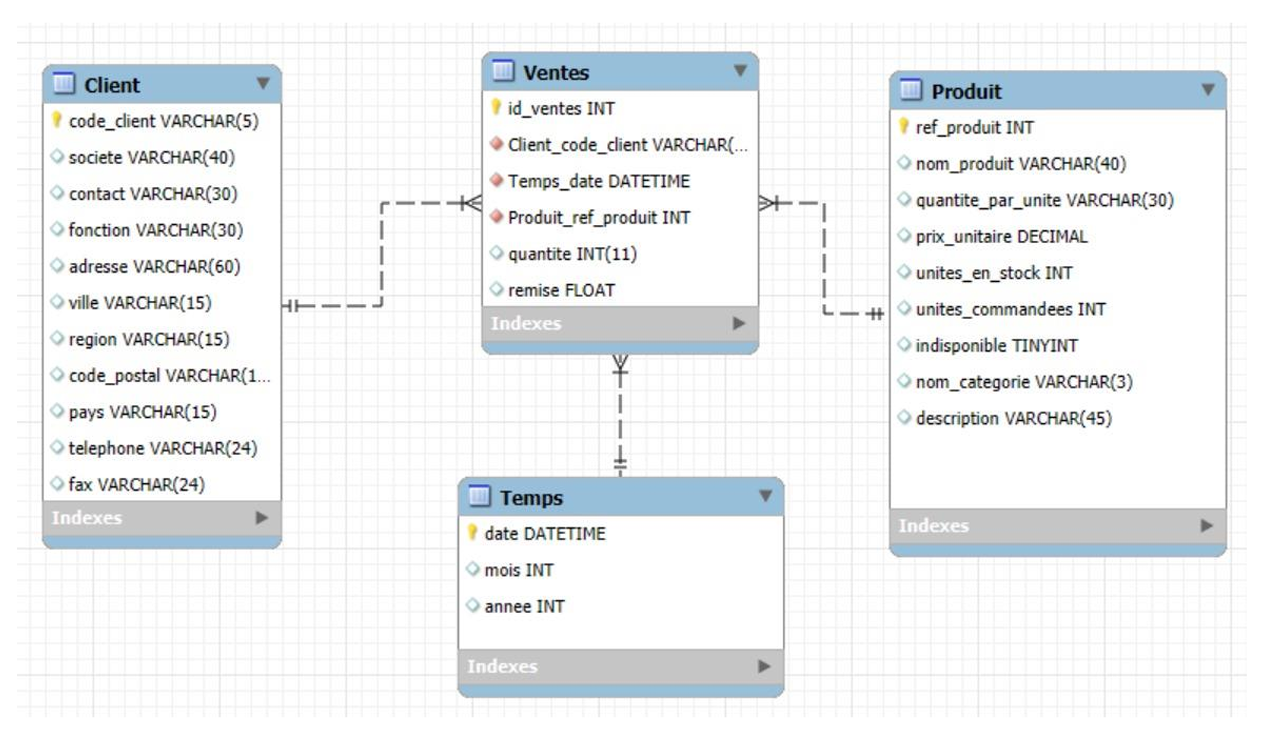
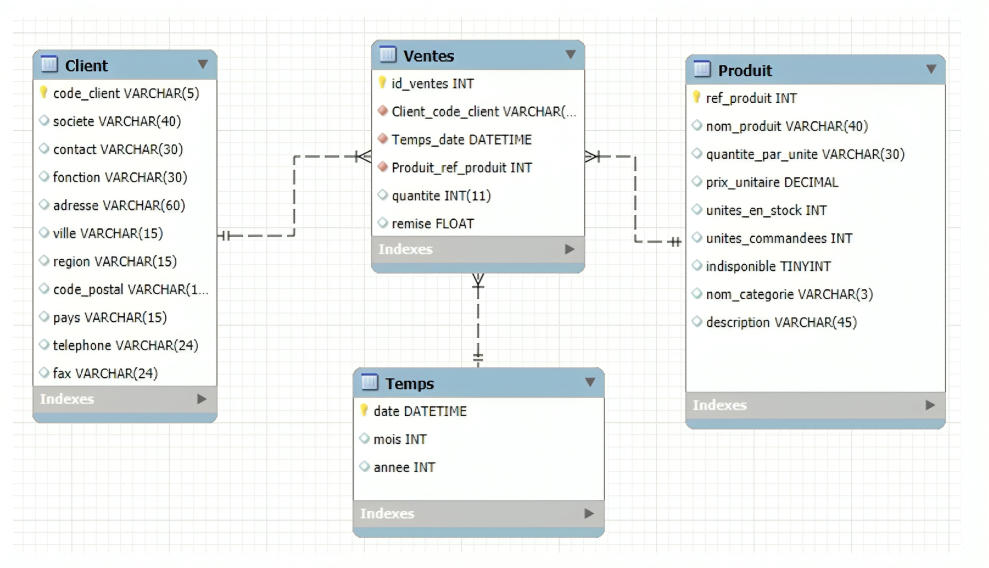
update readme

diff --git a/README.md b/README.md
@@ -45,7 +45,7 @@ The BI system follows a layered architecture:
 - **Data Warehouse:** Star schema (fact + dimension tables) implemented in MySQL  
 - **Presentation Layer:** Interactive dashboards in Power BI  
 
-![Architecture Diagram Placeholder](https://via.placeholder.com/800x400?text=BI+Architecture)
+![Architecture Diagram](./screenshots/architecture-diagram.png)
 
 ---
 
